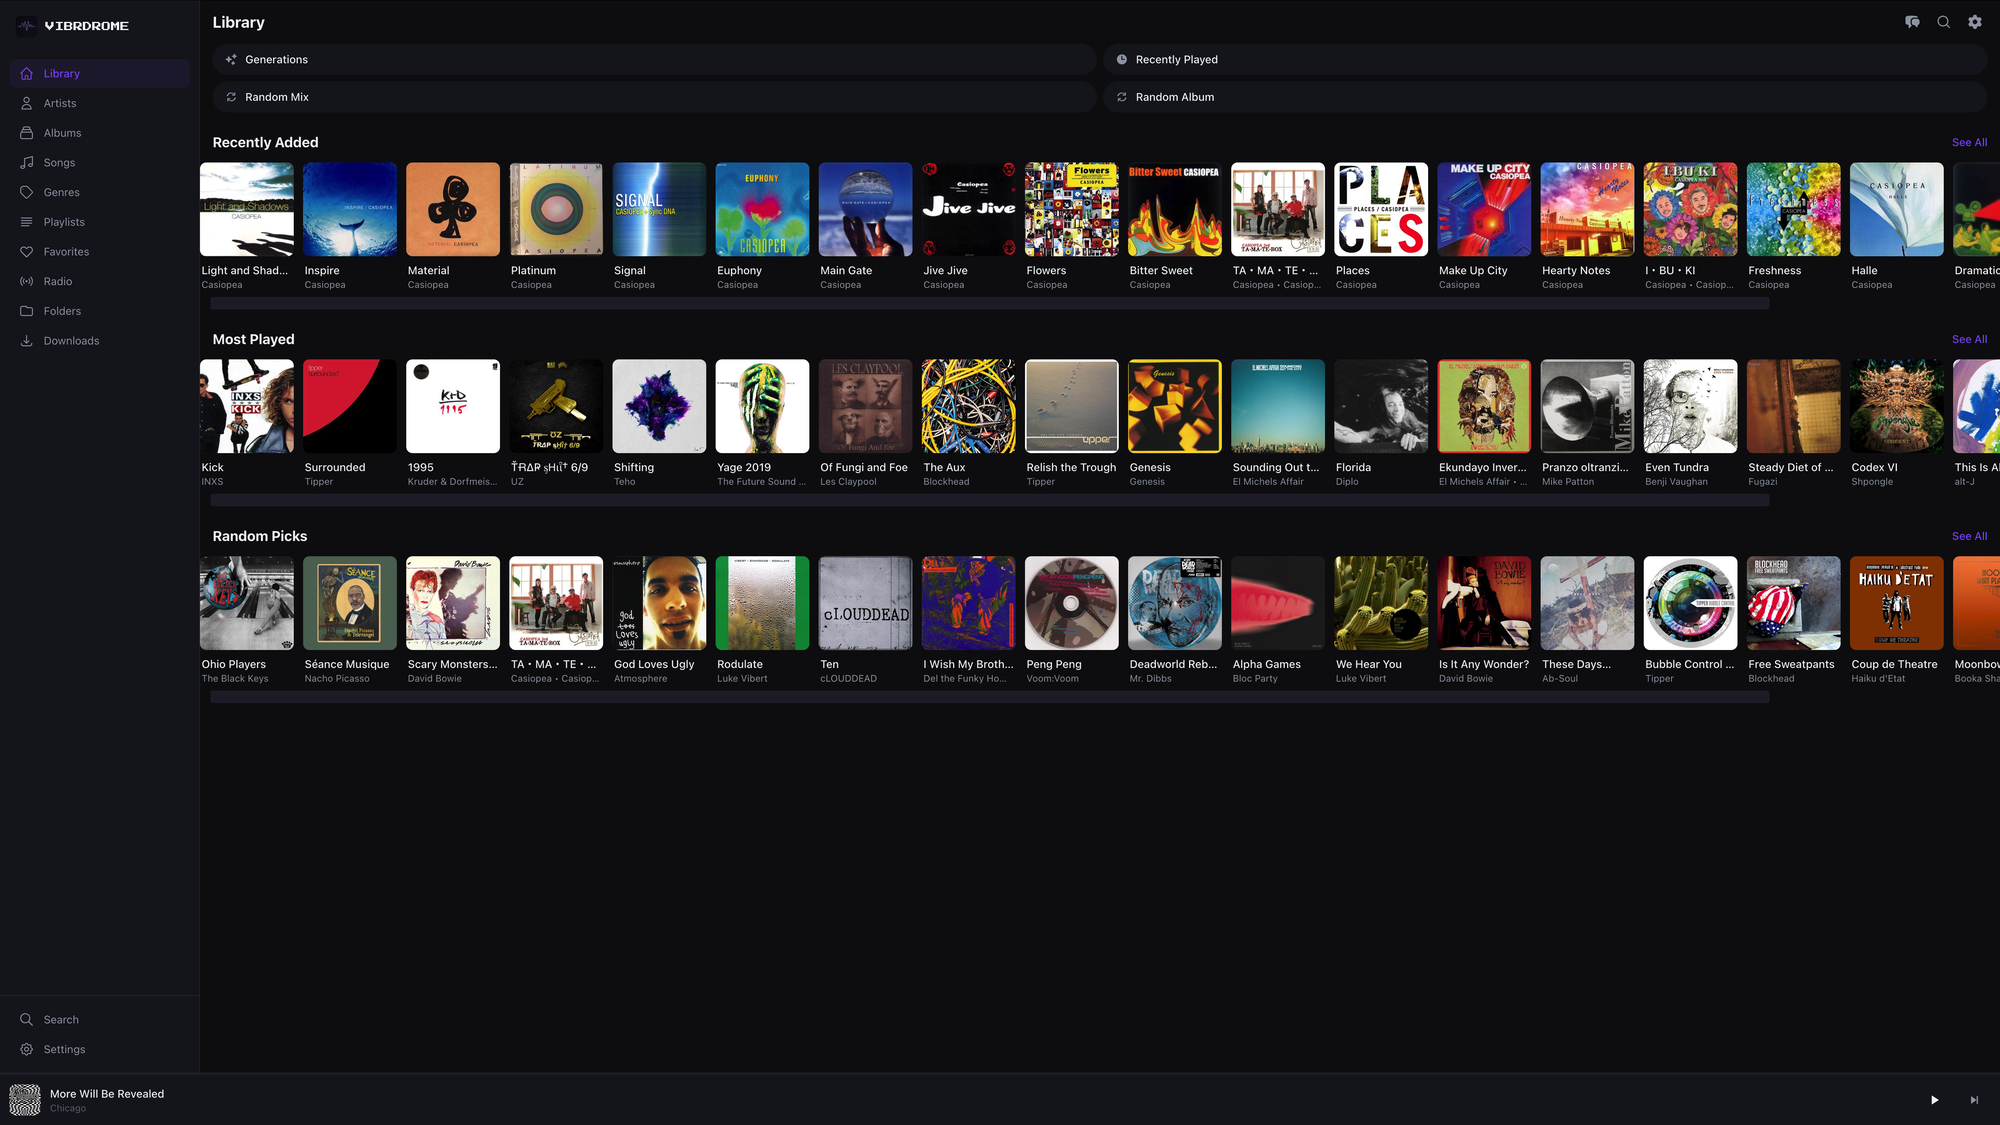
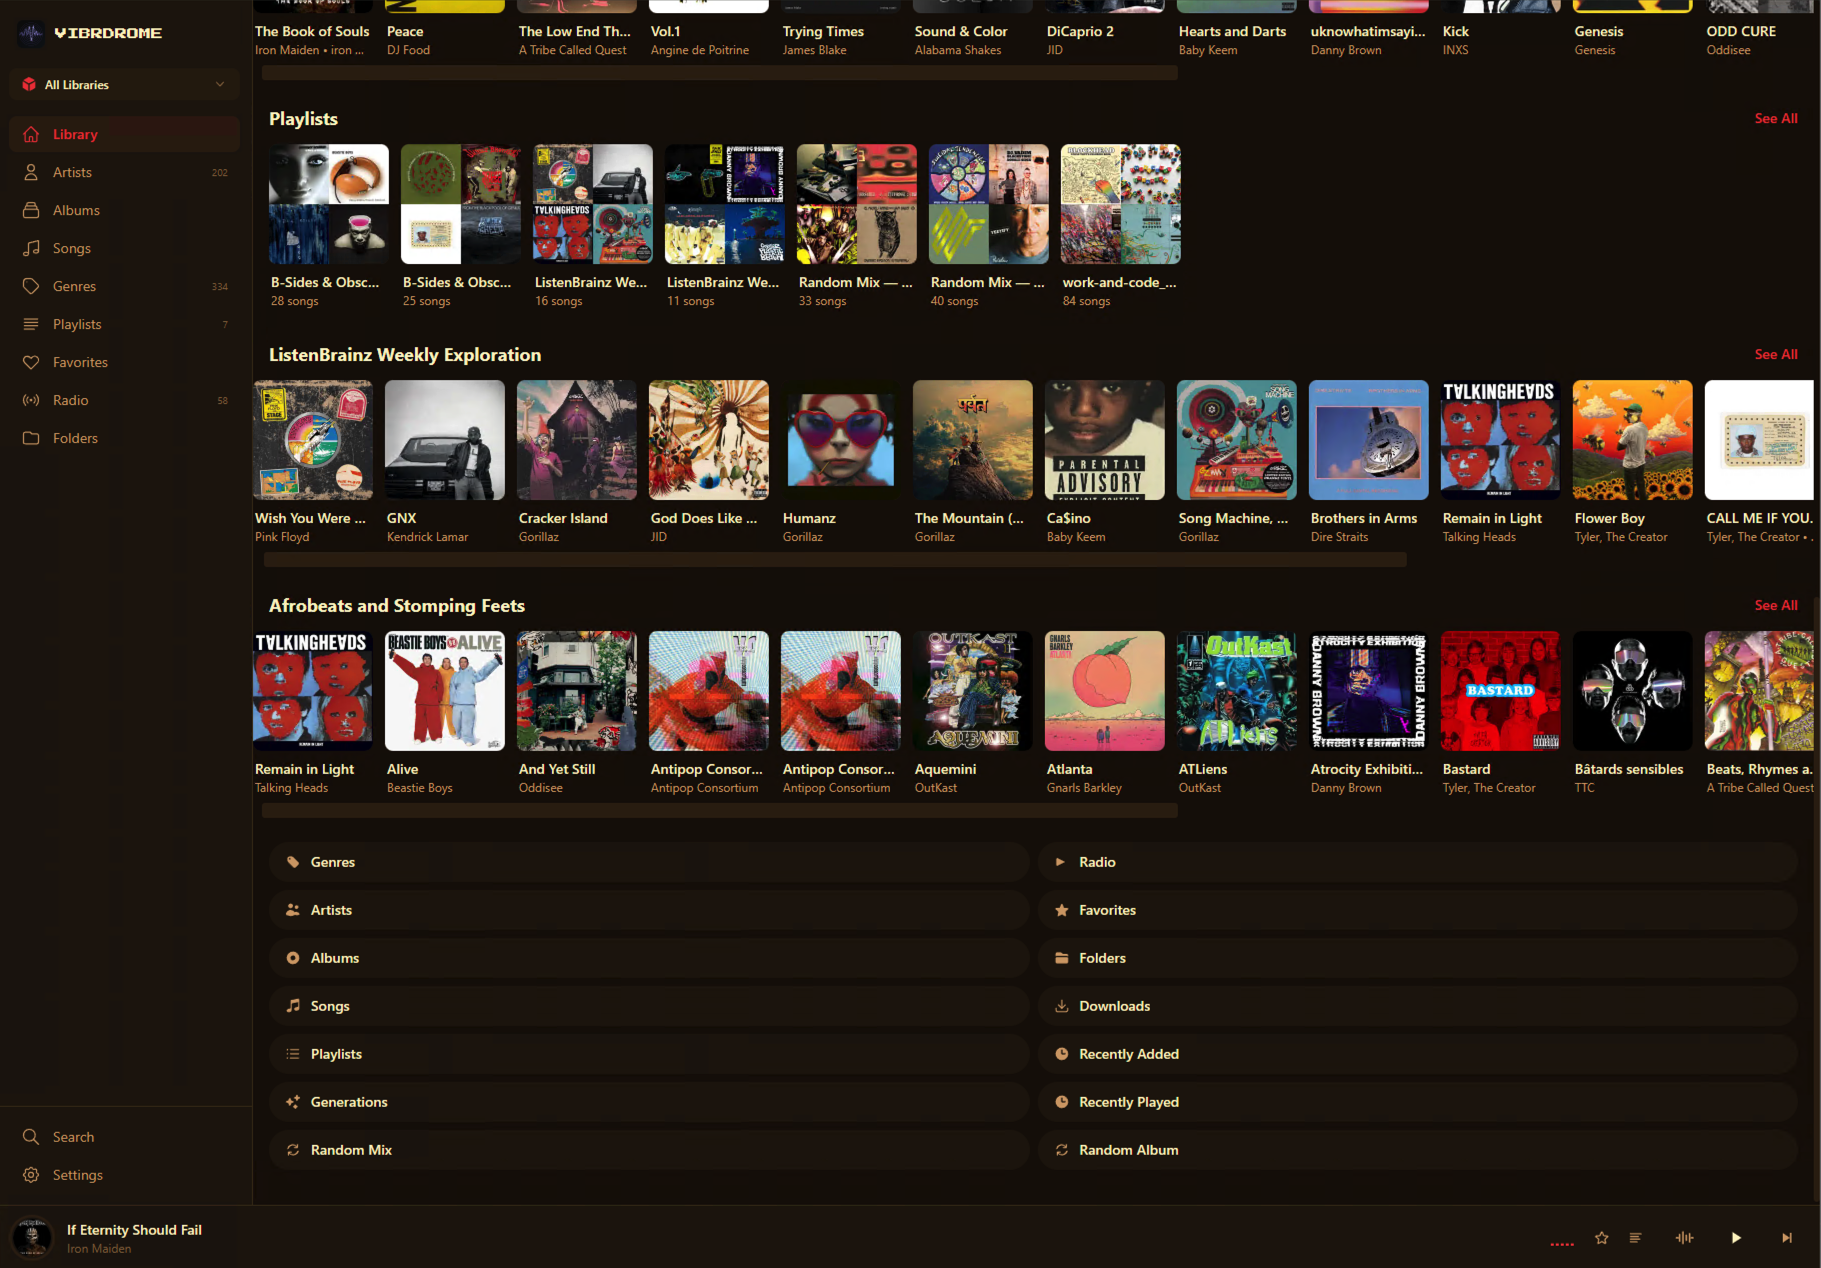
Update README with new screenshots
Three screenshots: Library with custom carousels and playlists,
Desktop Now Playing with spinning vinyl and artist spotlight,
Playlists grid view with artwork.

diff --git a/README.md b/README.md
@@ -10,7 +10,11 @@
 
 **[Try it live at web.vibrdrome.io](https://web.vibrdrome.io)**
 
-![Vibrdrome Web](screenshot.png)
+![Library](screenshot.png)
+
+![Now Playing](screenshot-player.png)
+
+![Playlists](screenshot-playlists.png)
 
 ---
 
